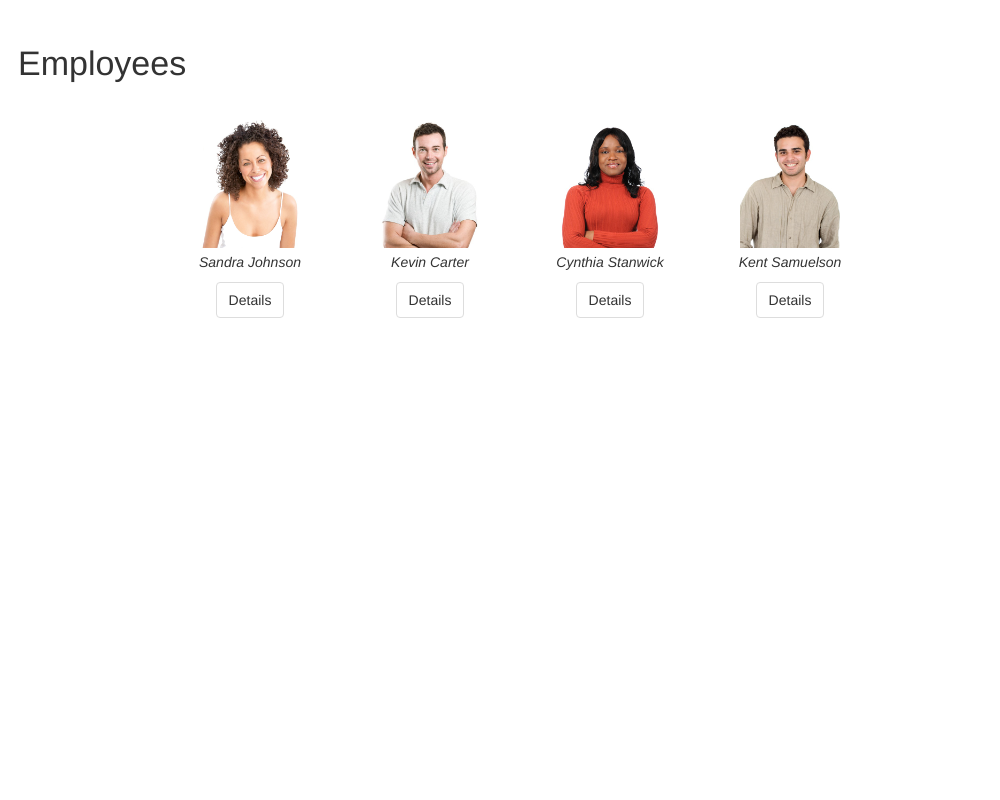
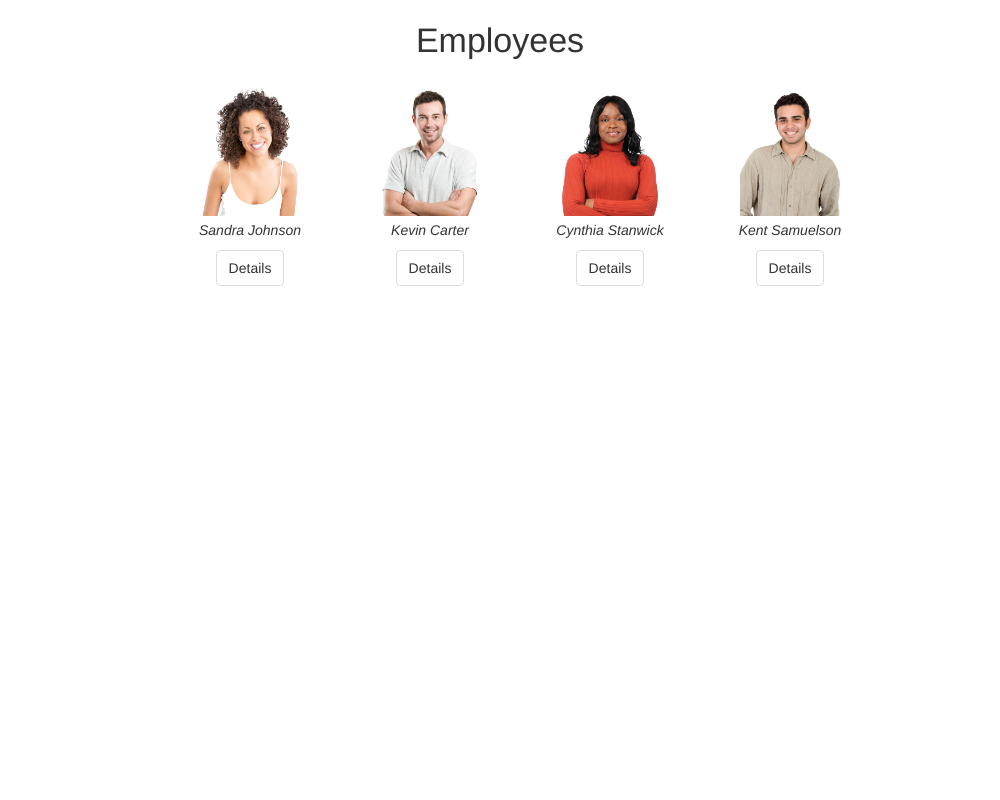
Components: get rid of h1 tag in demos (#2931)

diff --git a/JSDemos/Demos/MultiView/Overview/Vue/App.vue b/JSDemos/Demos/MultiView/Overview/Vue/App.vue
@@ -14,7 +14,7 @@
       <template #item="{ data: company }">
         <div>
           <div class="multiview-item">
-            <h1>{{ company.CompanyName }}</h1>
+            <div class="header">{{ company.CompanyName }}</div>
             <div>
               <p>
                 <b>{{ company.City }}</b>
@@ -107,12 +107,13 @@ export default {
 }
 
 #multiview p,
-#multiview h1 {
+#multiview .header {
   margin: 0;
 }
 
-#multiview h1 {
+#multiview .header {
   font-size: 34px;
+  padding-top: 0;
 }
 
 .options {

diff --git a/JSDemos/Demos/LoadPanel/Overview/Vue/App.vue b/JSDemos/Demos/LoadPanel/Overview/Vue/App.vue
@@ -1,7 +1,7 @@
 <template>
   <div>
     <div class="header-container">
-      <h1>John Heart</h1>
+      <div class="header">John Heart</div>
       <DxButton
         :on-click="showLoadPanel"
         text="Load Data"
@@ -108,7 +108,8 @@ export default {
 };
 </script>
 <style>
-h1 {
+.header {
+  font-size: 34px;
   display: inline-block;
   vertical-align: middle;
   padding: 10px 14px 10px 10px;

diff --git a/JSDemos/Demos/Accordion/Overview/Angular/app/app.component.css b/JSDemos/Demos/Accordion/Overview/Angular/app/app.component.css
@@ -2,11 +2,11 @@
   height: 700px;
 }
 
-::ng-deep #accordion h1 {
+::ng-deep #accordion .header {
   font-size: 20px;
 }
 
-::ng-deep #accordion h1,
+::ng-deep #accordion .header,
 ::ng-deep #accordion p {
   margin: 0;
 }
@@ -19,7 +19,7 @@
   display: flex;
 }
 
-::ng-deep .dx-theme-material #accordion h1 {
+::ng-deep .dx-theme-material #accordion .header {
   align-self: center;
 }
 

diff --git a/JSDemos/Demos/Accordion/Overview/Vue/App.vue b/JSDemos/Demos/Accordion/Overview/Vue/App.vue
@@ -88,11 +88,11 @@ export default {
   height: 700px;
 }
 
-#accordion h1 {
+#accordion .header {
   font-size: 20px;
 }
 
-#accordion h1,
+#accordion .header,
 #accordion p {
   margin: 0;
 }
@@ -105,7 +105,7 @@ export default {
   display: flex;
 }
 
-.dx-theme-material #accordion h1 {
+.dx-theme-material #accordion .header {
   align-self: center;
 }
 

diff --git a/MVCDemos/Content/DemosStyles/Accordion/Overview.css b/MVCDemos/Content/DemosStyles/Accordion/Overview.css
@@ -2,11 +2,11 @@
     height: 700px;
 }
 
-#accordion h1 {
+#accordion .header {
     font-size: 20px;
 }
 
-#accordion h1,
+#accordion .header,
 #accordion p {
     margin: 0;
 }
@@ -19,7 +19,7 @@
     display: flex;
 }
 
-.dx-theme-material #accordion h1 {
+.dx-theme-material #accordion .header {
     align-self: center;
 }
 

diff --git a/NetCoreDemos/wwwroot/css/DemosStyles/Accordion/Overview.css b/NetCoreDemos/wwwroot/css/DemosStyles/Accordion/Overview.css
@@ -2,11 +2,11 @@
     height: 700px;
 }
 
-#accordion h1 {
+#accordion .header {
     font-size: 20px;
 }
 
-#accordion h1,
+#accordion .header,
 #accordion p {
     margin: 0;
 }
@@ -19,7 +19,7 @@
     display: flex;
 }
 
-.dx-theme-material #accordion h1 {
+.dx-theme-material #accordion .header {
     align-self: center;
 }
 

diff --git a/JSDemos/Demos/Accordion/Overview/React/styles.css b/JSDemos/Demos/Accordion/Overview/React/styles.css
@@ -2,11 +2,11 @@
   height: 700px;
 }
 
-#accordion h1 {
+#accordion .header {
   font-size: 20px;
 }
 
-#accordion h1,
+#accordion .header,
 #accordion p {
   margin: 0;
 }
@@ -19,7 +19,7 @@
   display: flex;
 }
 
-.dx-theme-material #accordion h1 {
+.dx-theme-material #accordion .header {
   align-self: center;
 }
 

diff --git a/JSDemos/Demos/Accordion/Overview/jQuery/styles.css b/JSDemos/Demos/Accordion/Overview/jQuery/styles.css
@@ -2,11 +2,11 @@
   height: 700px;
 }
 
-#accordion h1 {
+#accordion .header {
   font-size: 20px;
 }
 
-#accordion h1,
+#accordion .header,
 #accordion p {
   margin: 0;
 }
@@ -19,7 +19,7 @@
   display: flex;
 }
 
-.dx-theme-material #accordion h1 {
+.dx-theme-material #accordion .header {
   align-self: center;
 }
 

diff --git a/JSDemos/Demos/Toast/Overview/Vue/App.vue b/JSDemos/Demos/Toast/Overview/Vue/App.vue
@@ -1,6 +1,6 @@
 <template>
   <div id="product-list">
-    <h1>Product List</h1>
+    <div class="header">Product List</div>
 
     <ul>
       <ProductItem
@@ -47,6 +47,11 @@ export default {
 };
 </script>
 <style>
+.header {
+  font-size: 34px;
+  text-align: center;
+}
+
 #product-list {
   padding: 10px;
 }

diff --git a/JSDemos/Demos/MultiView/Overview/Angular/app/app.component.css b/JSDemos/Demos/MultiView/Overview/Angular/app/app.component.css
@@ -23,13 +23,14 @@
   padding-left: 25px;
 }
 
-::ng-deep #multiview p {
+::ng-deep #multiview p,
+::ng-deep #multiview .header {
   margin: 0;
 }
 
-::ng-deep #multiview p,
-::ng-deep #multiview h1 {
-  margin: 0;
+::ng-deep #multiview .header {
+  font-size: 34px;
+  padding-top: 0;
 }
 
 ::ng-deep .options {

diff --git a/JSDemos/Demos/Popup/Overview/Vue/App.vue b/JSDemos/Demos/Popup/Overview/Vue/App.vue
@@ -1,6 +1,6 @@
 <template>
   <div id="container">
-    <h1>Employees</h1>
+    <div class="header">Employees</div>
 
     <ul>
       <EmployeeItem
@@ -136,6 +136,11 @@ export default {
 };
 </script>
 <style>
+.header {
+  font-size: 34px;
+  text-align: center;
+}
+
 #container {
   padding: 10px;
 }

diff --git a/JSDemos/Demos/MultiView/Overview/React/CompanyItem.js b/JSDemos/Demos/MultiView/Overview/React/CompanyItem.js
@@ -5,7 +5,7 @@ function CompanyItem({ data }) {
   return (
     <div>
       <div className="multiview-item">
-        <h1>{ company.CompanyName }</h1>
+        <div className="header">{ company.CompanyName }</div>
         <div>
           <p>
             <b>{ company.City } </b>
